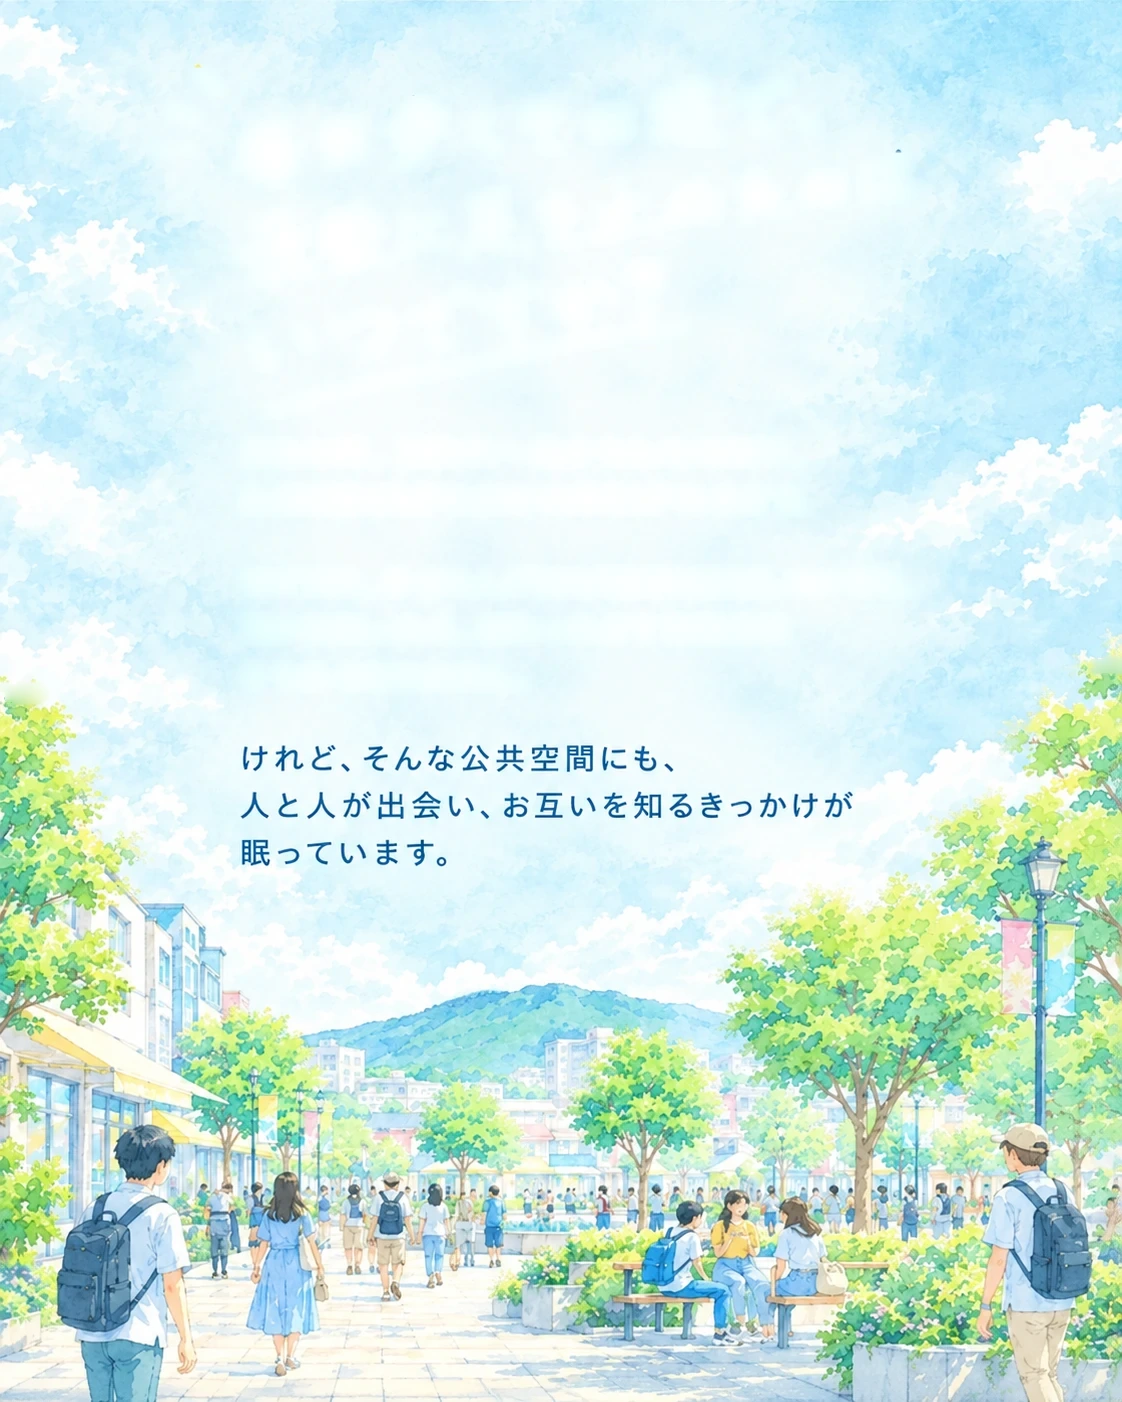
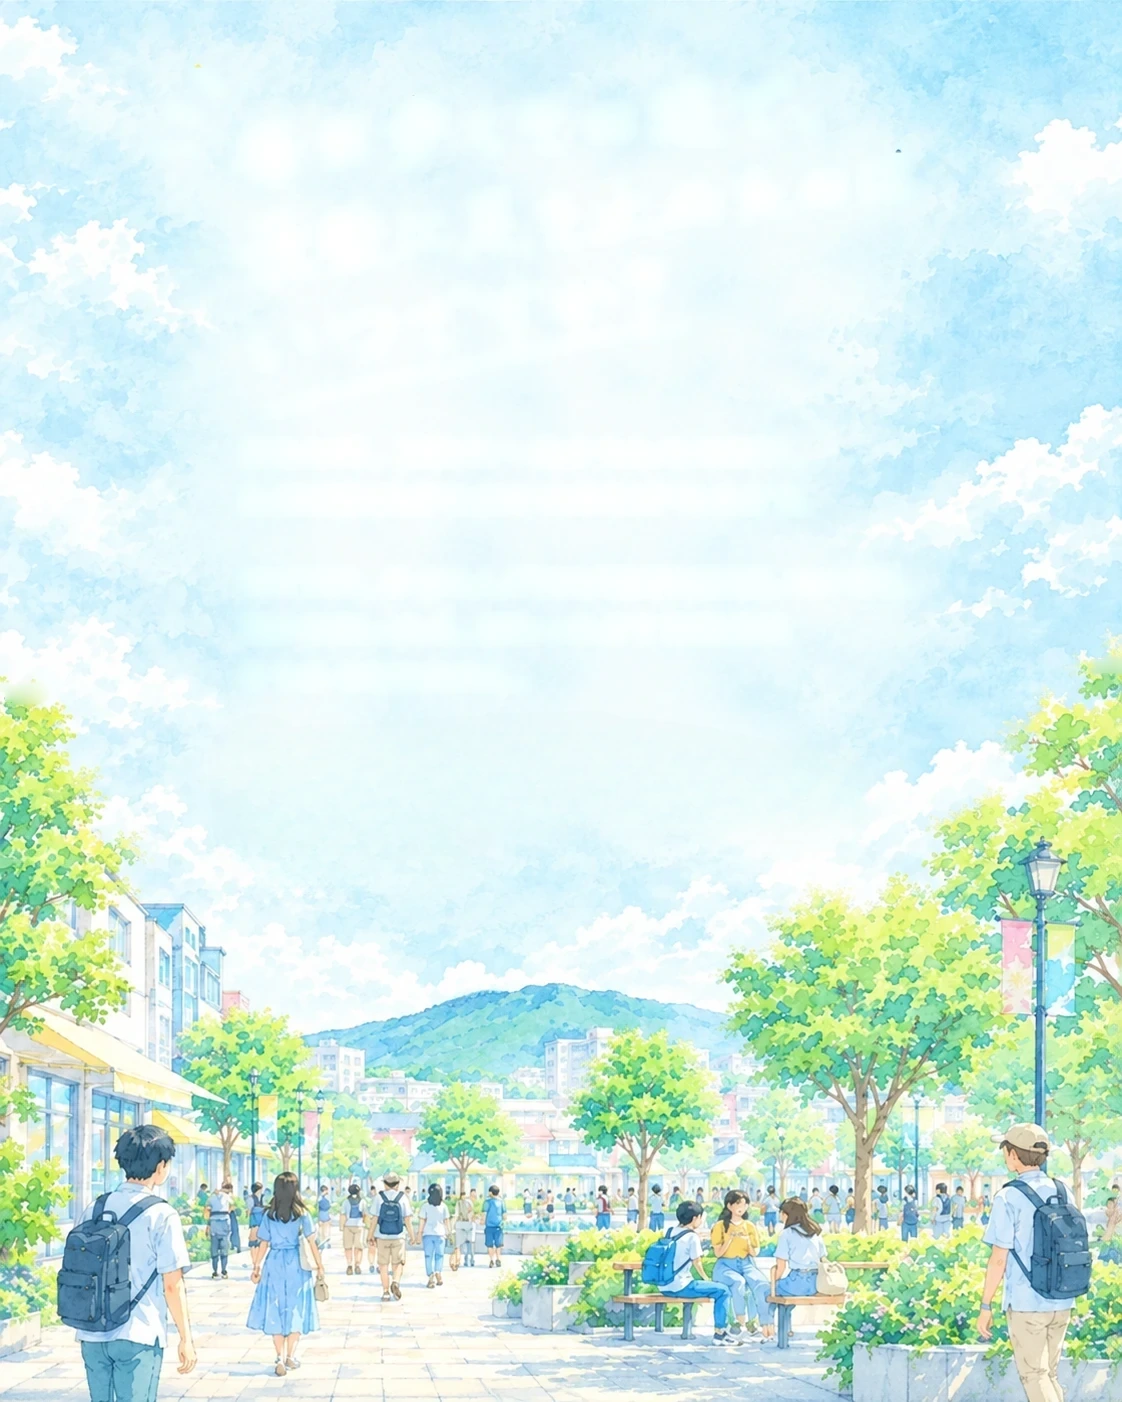
Use the supplied text-free pictures for two wide panels
The estimated backgrounds carried faint yellow blots where the underlines had
been. These are cleaned from the source, and the keyed text still lands on
them to within 2.6 of 255.

Changed region(s): [[0.2184, 0.5214, 0.7487, 0.6134]]

diff --git a/top-c/index.html b/top-c/index.html
@@ -148,7 +148,7 @@
 <section class="panels" id="story">
   <div class="stage">
     <div class="slide on">
-      <div class="p-wrap"><picture><source media="(max-width:560px) and (min-aspect-ratio:65/100)" srcset="/assets/sp-panel-1w-bg.webp" width="1122" height="1402"><img class="p-bg" src="/assets/sp-panel-1-bg.webp" width="992" height="1474"
+      <div class="p-wrap"><picture><source media="(max-width:560px) and (min-aspect-ratio:65/100)" srcset="/assets/sp-panel-1w-bg.webp?v=2" width="1122" height="1402"><img class="p-bg" src="/assets/sp-panel-1-bg.webp" width="992" height="1474"
         alt="毎日歩くその道で、最後に足を止めたのはいつですか？ まちには、目的地へ向かうための道や、ただ通り過ぎるだけの広場があります。そこでは、多くの人が同じ場所を利用していても、互いを知ったり、関わったりする機会はそう多くありません。けれど、そんな公共空間にも、人と人が出会い、お互いを知るきっかけが眠っています。"></picture><picture><source media="(max-width:560px) and (min-aspect-ratio:65/100)" srcset="/assets/sp-panel-1w-tx.webp" width="1122" height="1402"><img class="p-tx" src="/assets/sp-panel-1-tx.webp" width="992" height="1474" decoding="async" alt="" aria-hidden="true"></picture></div>
     </div>
     <div class="slide">
@@ -156,7 +156,7 @@
         alt="MACHI PLAYは、公共空間に眠る、そんな人と人との新たな関わりの可能性を、遊びの力で切り拓いていく取り組みです。その中で大事にしているのは、一人ひとりの「好き」を大切にすること、そして、人と一緒に何かを楽しむことです。誰かと一緒に楽しみ、その人の好きなものや人柄を知る。そんな出会いを通して、その人が暮らすまちも少しずつ身近になっていきます。"></picture><picture><source media="(max-width:560px) and (min-aspect-ratio:65/100)" srcset="/assets/sp-panel-2w-tx.webp" width="1122" height="1402"><img class="p-tx" src="/assets/sp-panel-2-tx.webp" width="992" height="1475" loading="lazy" decoding="async" alt="" aria-hidden="true"></picture></div>
     </div>
     <div class="slide">
-      <div class="p-wrap"><picture><source media="(max-width:560px) and (min-aspect-ratio:65/100)" srcset="/assets/sp-panel-3w-bg.webp?v=2" width="1122" height="1402"><img class="p-bg" src="/assets/sp-panel-3-bg.webp" width="941" height="1506" loading="lazy"
+      <div class="p-wrap"><picture><source media="(max-width:560px) and (min-aspect-ratio:65/100)" srcset="/assets/sp-panel-3w-bg.webp?v=3" width="1122" height="1402"><img class="p-bg" src="/assets/sp-panel-3-bg.webp" width="941" height="1506" loading="lazy"
         alt="いつもの道や広場に、思いがけない出会いや楽しみをつくる。そんな夢に向かって、「楽しい」と「好き」を大切にしながら、これからも活動を続けていきます。"></picture><picture><source media="(max-width:560px) and (min-aspect-ratio:65/100)" srcset="/assets/sp-panel-3w-tx.webp?v=2" width="1122" height="1402"><img class="p-tx" src="/assets/sp-panel-3-tx.webp" width="941" height="1506" loading="lazy" decoding="async" alt="" aria-hidden="true"></picture></div>
     </div>
   </div>
